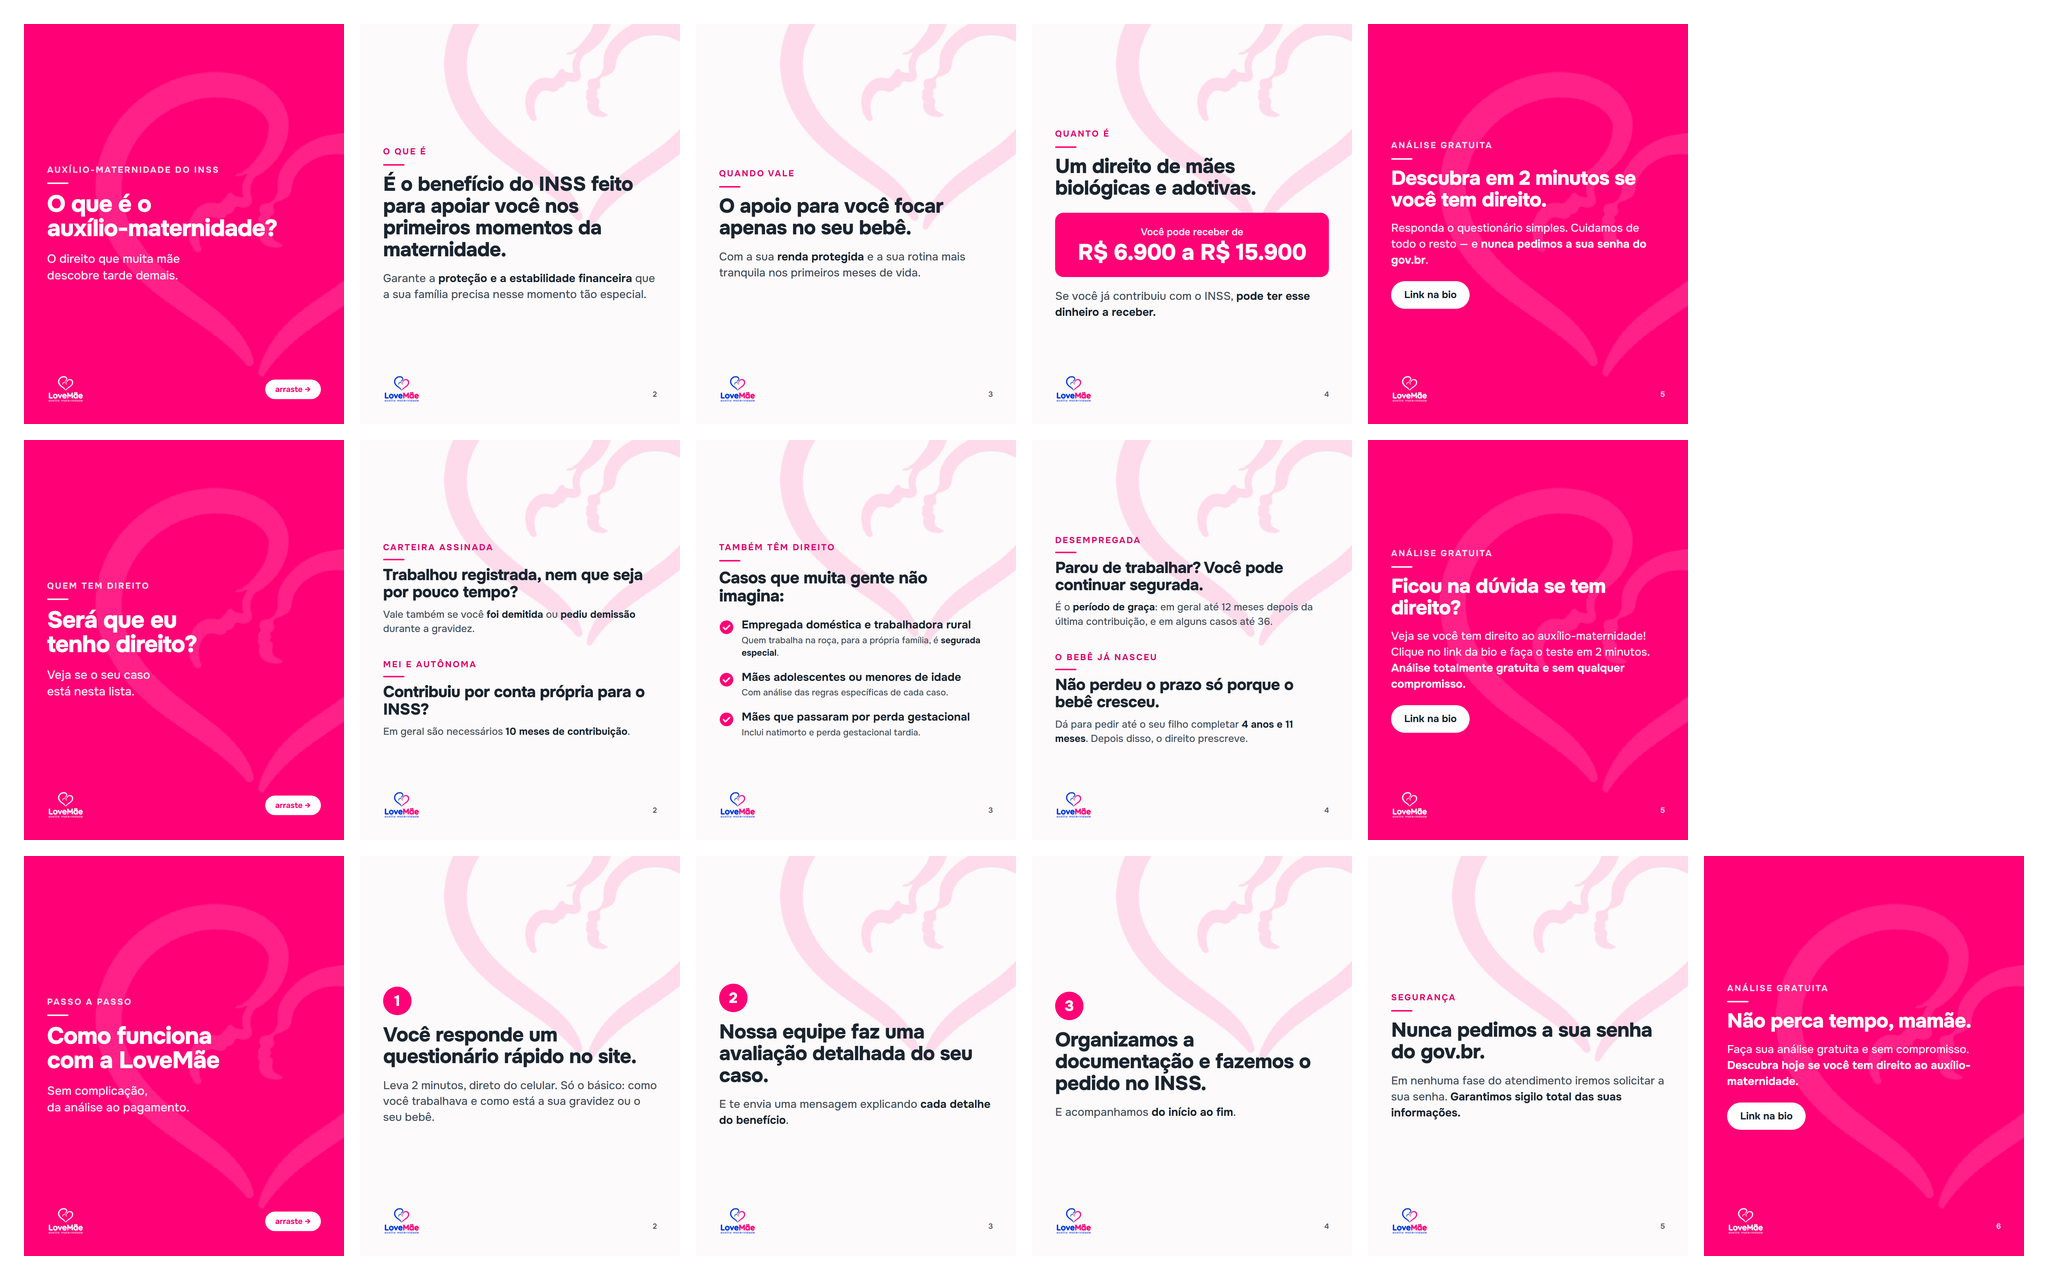
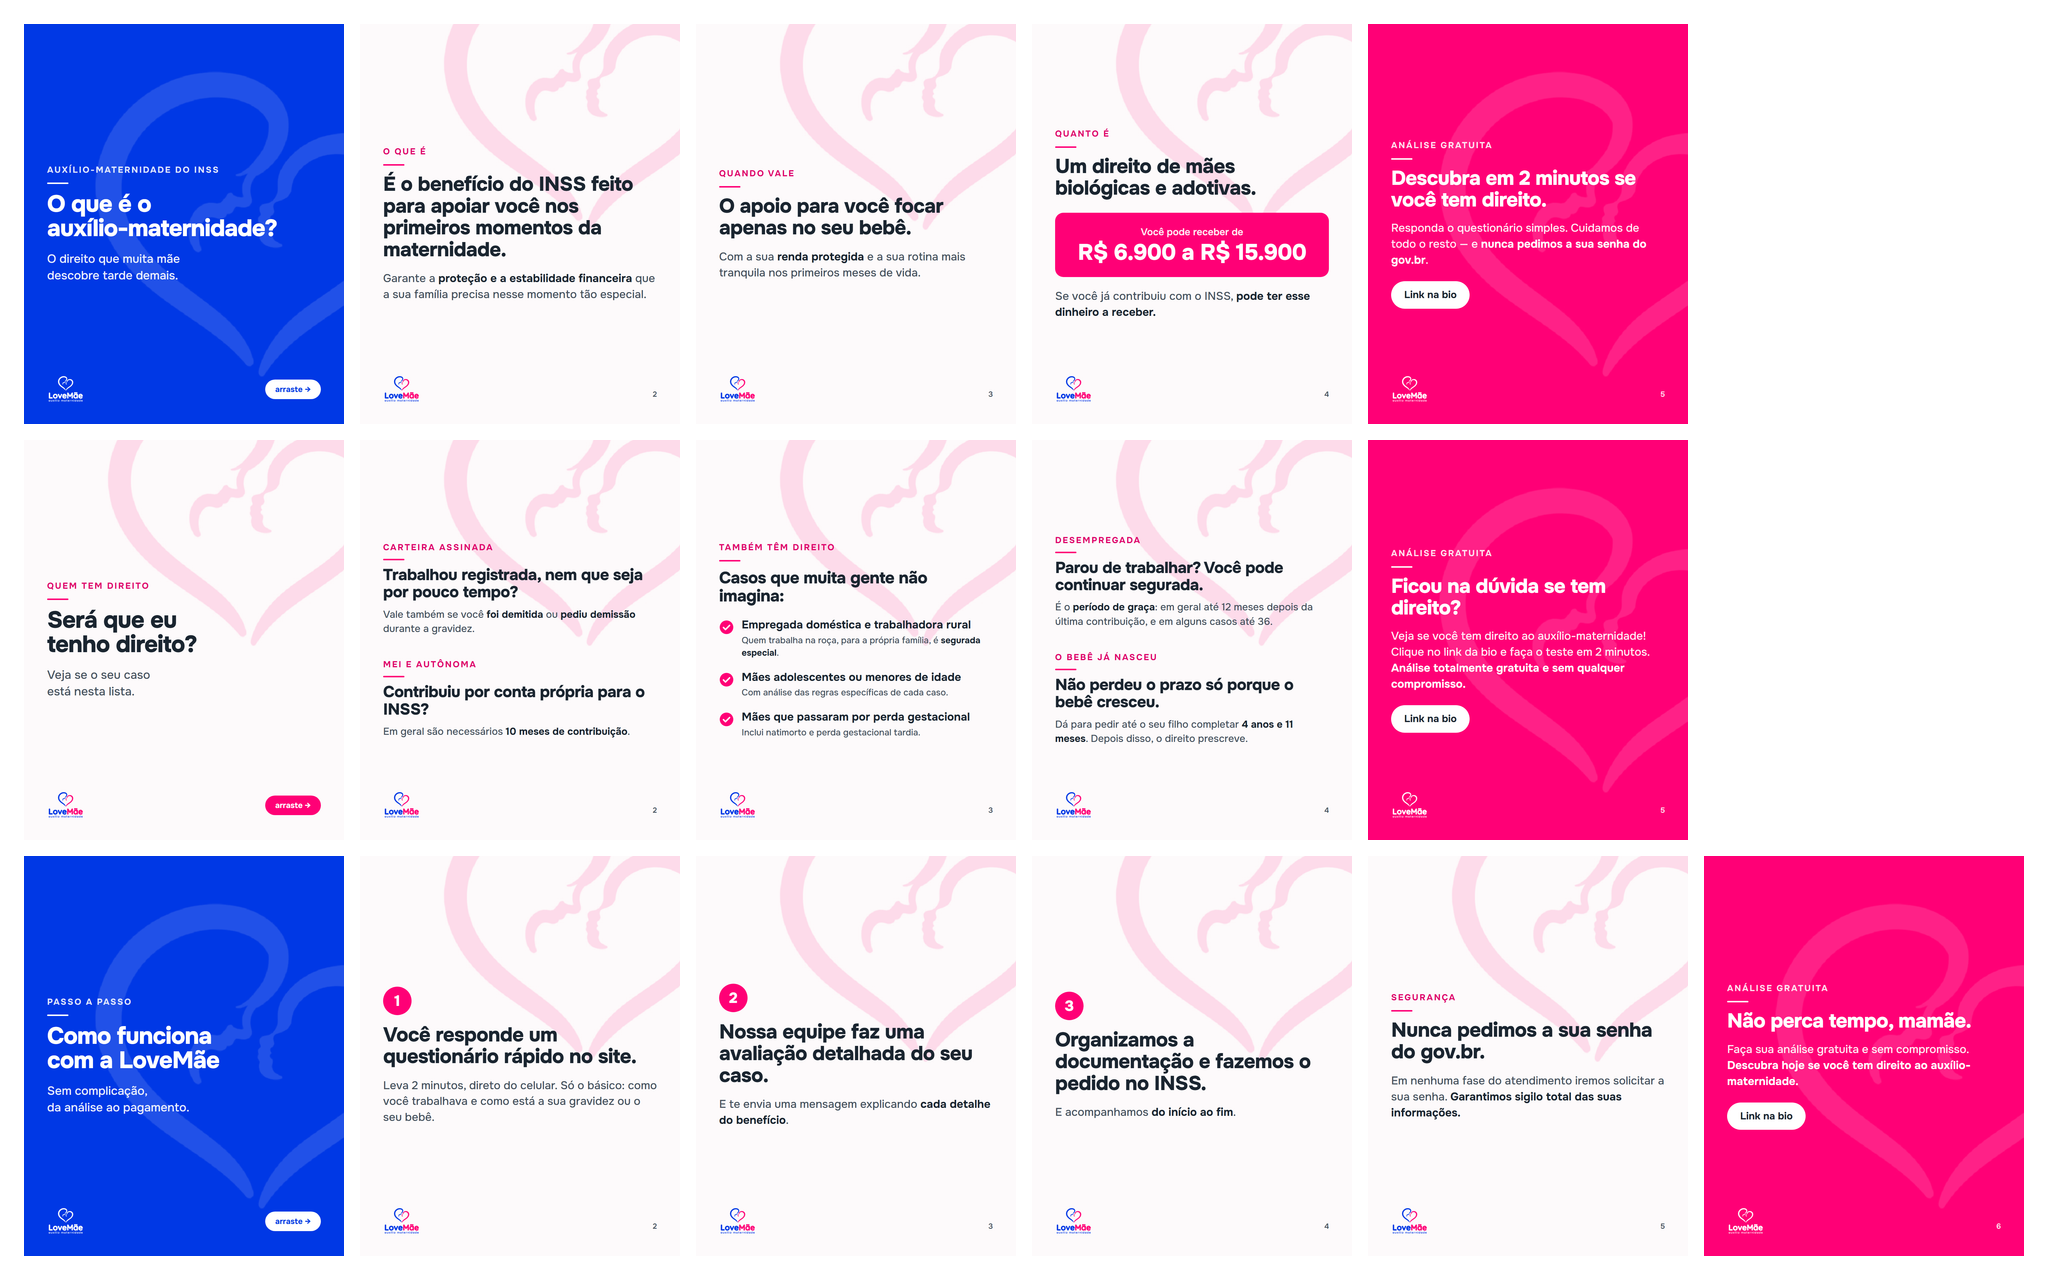
trilogia: capas azul, branca e azul

Changed region(s): [[0.0, 0.0, 0.1875, 1.0]]

diff --git a/marketing/conteudo/carrossel-quem-tem-direito-2026-09-17/legenda.md b/marketing/conteudo/carrossel-quem-tem-direito-2026-09-17/legenda.md
@@ -1,7 +1,7 @@
 # Carrossel 2 da trilogia — "Será que eu tenho direito?"
 
 Produzido em 17/09/2026. Post **fixado** no topo do perfil (o do meio).
-5 slides, 1080×1350. Capa rosa (decisão de 17/09/2026).
+5 slides, 1080×1350. Capa **branca** (decisão de 22/09/2026).
 
 ⚠ **Antes de publicar:** o time de operação precisa conferir as regras citadas —
 carência de 10 meses para MEI/autônoma, segurada especial rural, período de graça

diff --git a/marketing/conteudo/carrossel-o-que-e-2026-09-17/legenda.md b/marketing/conteudo/carrossel-o-que-e-2026-09-17/legenda.md
@@ -1,7 +1,7 @@
 # Carrossel 1 da trilogia — "O que é o auxílio-maternidade?"
 
 Produzido em 17/09/2026. Post **fixado** no topo do perfil.
-5 slides, 1080×1350. Capa rosa (decisão de 17/09/2026).
+5 slides, 1080×1350. Capa **azul** (decisão de 22/09/2026).
 
 ⚠ **Antes de publicar:** o time de operação precisa conferir as regras citadas
 (parto, adoção, guarda judicial, perda gestacional e a faixa de valor).

diff --git a/marketing/conteudo/carrossel-como-funciona-2026-09-17/legenda.md b/marketing/conteudo/carrossel-como-funciona-2026-09-17/legenda.md
@@ -2,6 +2,7 @@
 
 Produzido em 17/09/2026. Copy revisada pela empresa em 18/09/2026.
 Post **fixado** no topo do perfil (o terceiro). 6 slides, 1080×1350.
+Capa **azul** (decisão de 22/09/2026).
 
 ⚠ **Antes de publicar:** o time de operação precisa confirmar que o passo a passo
 descreve o processo real (questionário → avaliação e mensagem → entrada e acompanhamento no INSS).
